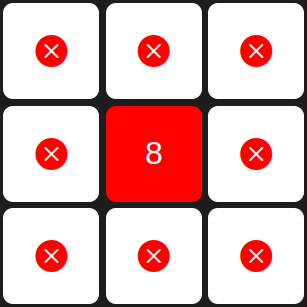
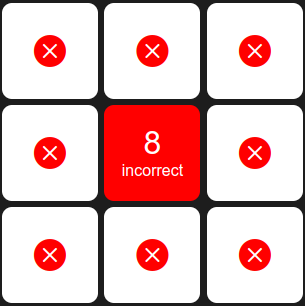
Added more info/prompts

diff --git a/index.html b/index.html
@@ -79,17 +79,16 @@
             <div id="exit-help" class="bi bi-x" onclick="closeHelp()"></div>
             <h1>How To Play</h1>
             <p>Click on squares on the grid to see each question</p>
-            <p>Each question has 4 options, with one being the correct answer</p>
+            <p>Each question has multiple answers, with one being correct</p>
             <p>Decide whether the option highlighted in blue is correct and then either</p>
             <div style="display: flex; flex-direction: row; align-items: center; justify-content: center; gap: 20px;">
                 <p>Mark the square as correct</p>
                 <div class="bi bi-check-circle-fill" style="color:var(--true-colour); font-size: 2em;"></div>
-            </div>
-            <div style="display: flex; flex-direction: row; align-items: center; justify-content: center; gap: 20px;">
-                <p>Mark the square as incorrect</p>
+                <p>or incorrect</p>
                 <div class="bi bi-x-circle-fill" style="color:var(--false-colour); font-size: 2em;"></div>
+           
             </div>
-            <p>The red quares show how many adjacent squares are <i>incorrect</i></p>
+            <p style="font-size: 1.2em;"><b>The red quares show how many adjacent squares are <span style="color: var(--false-colour); font-size: 1.2em;">INCORRECT</span></b></p>
             <img src="eight-incorrect-example.png" id="example"/>
             <p>Once all squares have been marked you may finish the game and see your score</p>
 
@@ -107,6 +106,7 @@
         <div id="current-question" style="display: none;">
             <p id="current-question-text"></p>
             <div id="answers"></div>
+            <div id="question-prompt">Is this the correct answer?</div>
             <div id="question-options">
                 <div class="option-button bi bi-x" id="false-button" onclick="markQuestion('false')"><div class="state-back bi bi-circle-fill" style="display: none;"></div></div>
                 <div class="option-button bi bi-question" id="none-button" style="color: white;" onclick="markQuestion('none')"></div>

diff --git a/index.css b/index.css
@@ -210,6 +210,11 @@ body {
     background-color: var(--false-colour);
 }
 
+#question-prompt {
+    margin-top: 0;
+    margin-bottom: 20px;
+}
+
 #question-options {
     display: flex;
     flex-direction: row;
@@ -349,6 +354,24 @@ body {
 /* .square.question.selected:hover {
     filter: none;
 } */
+
+.tell-text {
+    width: 100%;
+    height: 100%;
+    /* font-size: 1em; */
+    display: flex;
+    align-items: center;
+    justify-content: center;
+    flex-direction: column;
+}
+
+.tell-num {
+
+}
+
+.tell-info {
+    font-size: 0.5em;
+}
 
 .square.tell {
     background-color: var(--false-colour);

diff --git a/index.js b/index.js
@@ -219,7 +219,10 @@ function updateTells() {
             }
         }
 
-        tell.text(lies.toString())
+        let text = $(`<div class="tell-text"><div class="tell-num">${lies}</div><div class="tell-info">incorrect</div></div></div>`)
+
+        tell.text("")
+        tell.append(text)
     }
 
 }
@@ -519,6 +522,8 @@ function finish() {
     checkAnswers()
     $("#finish").hide()
     $("#question-options").hide()
+    $("#question-prompt").hide()
+
 
     $("#score").text(`${0}/${numQuestions}`)
 
